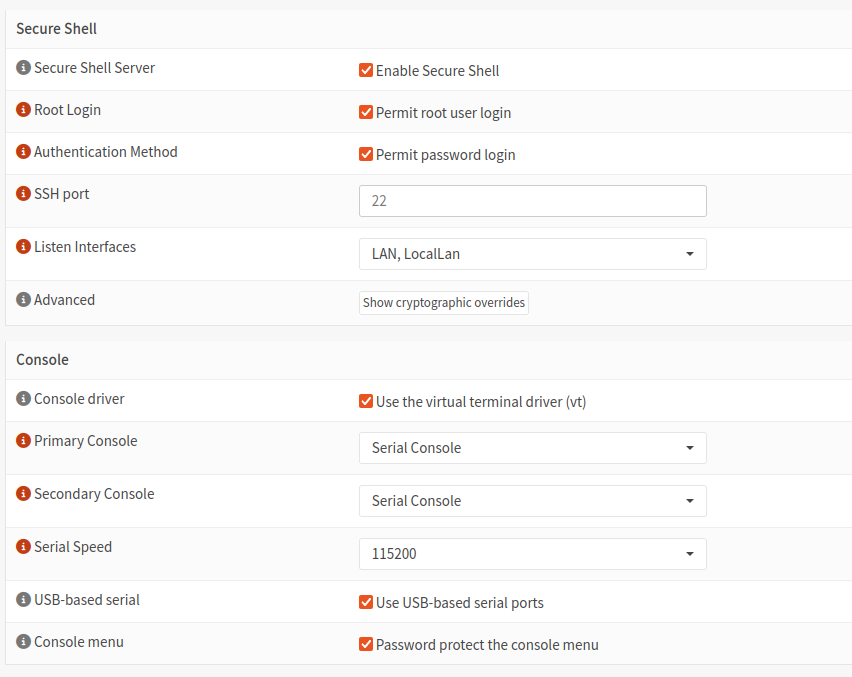
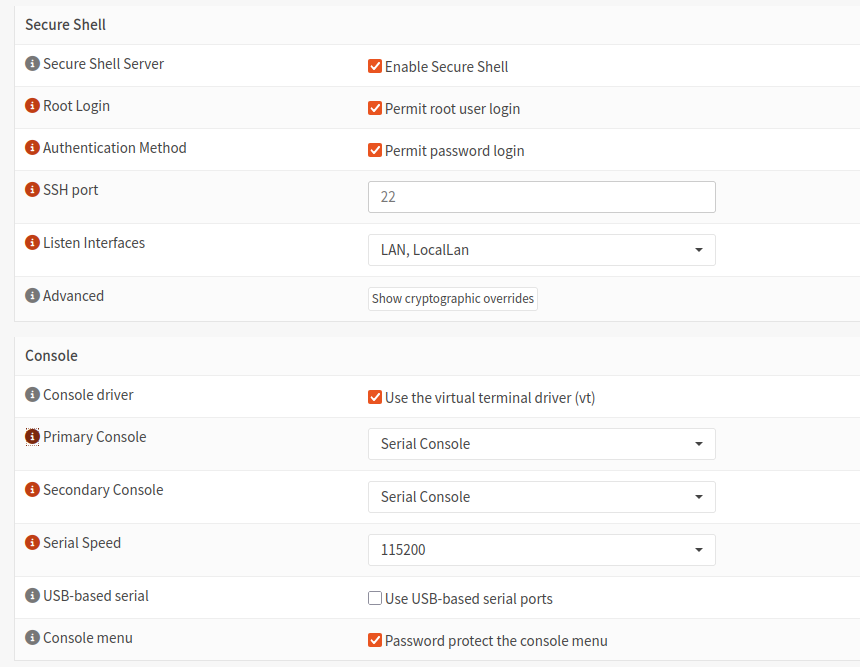
docs: simplify Step 7 to two config steps, no syshook needed
The fix is simply: uncheck USB-based serial in OPNsense settings +
comconsole_port=0x2f8 in loader.conf.local. The syshook workaround
and all PAM changes are unnecessary.

diff --git a/README.md b/README.md
@@ -136,29 +136,27 @@ Allow it to install, then change your root password (please lord god do this lol
 
 ## Step 7: Headless Serial Console Setup (No GPU Required)
 
-After installing OPNsense, you can manage the device entirely over serial — no GPU, no HDMI, no monitor needed. However, there are two OPNsense quirks that need fixing before serial login works properly.
+After installing OPNsense, you can manage the device entirely over serial — no GPU, no HDMI, no monitor needed. Two things need configuring to make this work properly.
 
 > **Tested on:** OPNsense 26.1.6_2 (amd64)
-> These issues have been reported to the OPNsense project as [opnsense/core#10463](https://github.com/opnsense/core/issues/10463). Check that issue to see if a fix has been merged — if so, some or all of the steps below may no longer be necessary.
+> The underlying hardware quirk has been reported to the OPNsense project as [opnsense/core#10463](https://github.com/opnsense/core/issues/10463). Check that issue to see if it has been addressed natively.
 
 ### Background: How the serial port works on this hardware
 
 The mini-USB port under the side cover exposes **two hardware UARTs** via an internal USB-to-serial chip:
 
-- **COM1 (0x3F8)** — FreeBSD calls this `ttyu0`, and it's where the FreeBSD kernel sends its console output by default
-- **COM2 (0x2F8)** — FreeBSD calls this `ttyu1`, and this is the port that coreboot and the FreeBSD bootloader use for their output
+- **COM1 (0x3F8)** — FreeBSD calls this `ttyu0`, where the FreeBSD kernel sends console output by default
+- **COM2 (0x2F8)** — FreeBSD calls this `ttyu1`, where coreboot and the FreeBSD bootloader send their output
 
-Without any fixes, you'd see bootloader/module-loading output (from COM2) but then silence during OPNsense startup (which goes to COM1). No login prompt ever appears — `getty` is configured for `ttyU1` (uppercase) but the actual FreeBSD device node is `ttyu1` (lowercase), so it can't open the port.
+Although the port is physically connected via USB, coreboot presents both UARTs to FreeBSD as **native hardware UARTs** (not USB devices). FreeBSD therefore names them `ttyu0`/`ttyu1` (lowercase u, UART driver) — not `ttyU0`/`ttyU1` (uppercase U, USB ucom driver).
 
-The fixes below address both issues and persist across reboots.
+Without any fixes, you'd see bootloader output (from COM2) then silence — the kernel switches to COM1 and no login prompt appears.
 
-### Required OPNsense console settings
+### Step 1: OPNsense console settings
 
-Before applying the fixes, ensure your OPNsense console is configured correctly under **System → Settings → Administration → Console**:
+Under **System → Settings → Administration → Console**, configure as follows:
 
 <img src="pics/console-settings.png" height="350">
-
-The key settings are:
 
 | Setting | Value |
 |---------|-------|
@@ -166,14 +164,14 @@ The key settings are:
 | Primary Console | Serial Console |
 | Secondary Console | Serial Console |
 | Serial Speed | 115200 |
-| USB-based serial | Use USB-based serial ports ✅ |
+| USB-based serial | ☐ **Leave unchecked** |
 | Console menu | Password protect the console menu ✅ |
 
-> **Note:** "USB-based serial" must be enabled — this is what causes OPNsense to generate the `ttyU` entries in `/etc/ttys` that the fixes below target.
+> **Important:** Leave "USB-based serial" **unchecked**. When enabled, OPNsense writes `ttyU` (uppercase) entries in `/etc/ttys` — but the actual device nodes on this hardware are `ttyu` (lowercase). Leaving it unchecked causes OPNsense to generate the correct lowercase entries that match the real device nodes.
 
-### Fix 1: Full boot output on serial
+### Step 2: Point the kernel console to COM2
 
-Add `comconsole_port="0x2f8"` to `/boot/loader.conf.local` to tell the FreeBSD kernel to use COM2 (the same port as the bootloader and your mini-USB):
+By default the FreeBSD kernel uses COM1, but coreboot and the bootloader use COM2 (your mini-USB connection). Add the following to `/boot/loader.conf.local` via SSH or the OPNsense shell:
 
 ```sh
 cat > /boot/loader.conf.local << 'EOF'
@@ -182,59 +180,13 @@ comconsole_port="0x2f8"
 EOF
 ```
 
-### Fix 2: Serial login (persistent, survives reboots)
-
-There are **two separate bugs** that prevent serial console login from working:
-
-**Bug 1 — ttyU/ttyu case mismatch (no login prompt):**
-OPNsense generates `/etc/ttys` with entries for `ttyU0` and `ttyU1` (uppercase U) when `serialusb` is set in its config. The actual FreeBSD device nodes are `ttyu0`/`ttyu1` (lowercase u). This means `getty` is configured for devices that don't exist — no login prompt appears.
-
-**Bug 2 — ttyname() symlink resolution (silent root denial):**
-Creating symlinks `ttyU0→ttyu0` makes `getty` work and a login prompt appears, but FreeBSD's `login` command calls `ttyname()` to look up the terminal in `/etc/ttys`. Since `ttyname()` resolves symlinks, it returns `ttyu1` (lowercase) — which has no `/etc/ttys` entry. Without a matching entry marked `secure`, FreeBSD silently denies root login before ever prompting for a password.
-
-Both are fixed by a single syshook script using OPNsense's own persistence mechanism (runs after OPNsense's boot configuration at `20-freebsd`):
-
-```sh
-cat > /usr/local/etc/rc.syshook.d/start/99-serial-console << 'EOF'
-#!/bin/sh
-
-# Fix serial console login on VeloCloud Edge 510.
-# Must run after 20-freebsd which calls system_login_configure().
-
-# Bug 1: OPNsense writes ttyU (uppercase) in /etc/ttys but FreeBSD device
-# nodes are ttyu (lowercase). Create symlinks so getty can open them.
-ln -sf /dev/ttyu0 /dev/ttyU0
-ln -sf /dev/ttyu0.init /dev/ttyU0.init
-ln -sf /dev/ttyu0.lock /dev/ttyU0.lock
-ln -sf /dev/ttyu1 /dev/ttyU1
-ln -sf /dev/ttyu1.init /dev/ttyU1.init
-ln -sf /dev/ttyu1.lock /dev/ttyU1.lock
-
-# Bug 2: FreeBSD login(1) calls ttyname() which resolves symlinks, returning
-# 'ttyu1' (lowercase). Without a 'secure' entry in /etc/ttys, login silently
-# denies root before prompting for a password.
-# 'off' = no duplicate getty spawned, 'secure' = root login permitted.
-for tty in ttyu0 ttyu1; do
-    if ! grep -q "^${tty}" /etc/ttys; then
-        echo "${tty}  none  vt100  off secure" >> /etc/ttys
-    fi
-done
-
-# Signal init to re-read /etc/ttys
-kill -HUP 1
-EOF
-
-chmod +x /usr/local/etc/rc.syshook.d/start/99-serial-console
-```
-
 ### Verifying it works
 
 Reboot the device. You should see:
 
-1. Full OPNsense boot sequence on your serial terminal (services starting, syshook output, etc.)
-2. `>>> Invoking start script 'serial-console'` followed by `OK` — confirming the syshook ran
-3. The OPNsense banner and a `login:` prompt on `ttyU1`
-4. Successful login with your `root` credentials
+1. Full OPNsense boot sequence on your serial terminal
+2. A `login:` prompt on `ttyu1`
+3. Successful login with your `root` credentials
 
 From this point the device is fully headless — no GPU, no monitor, serial console only.
 